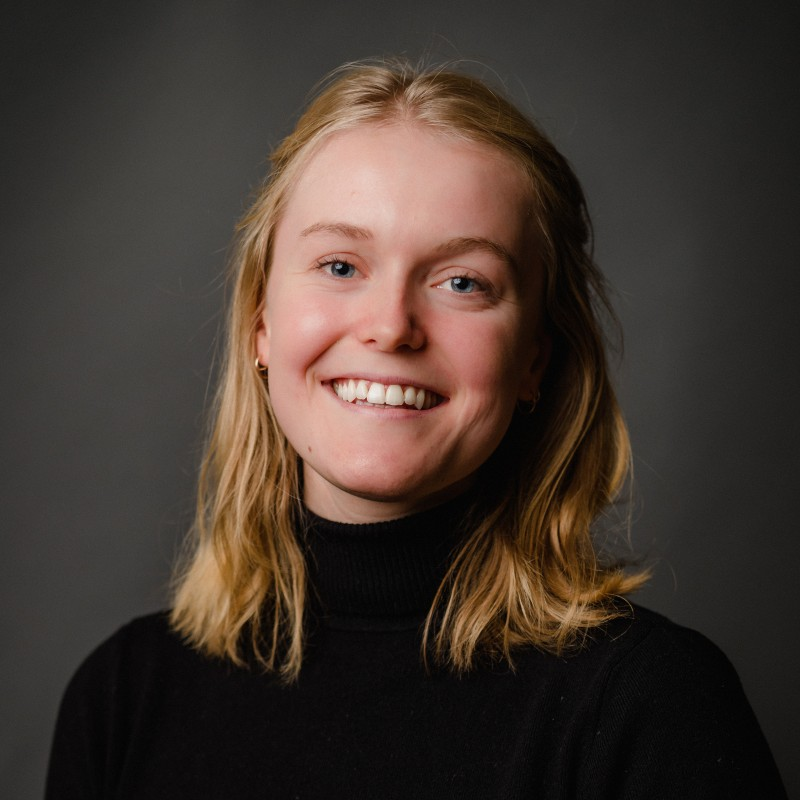
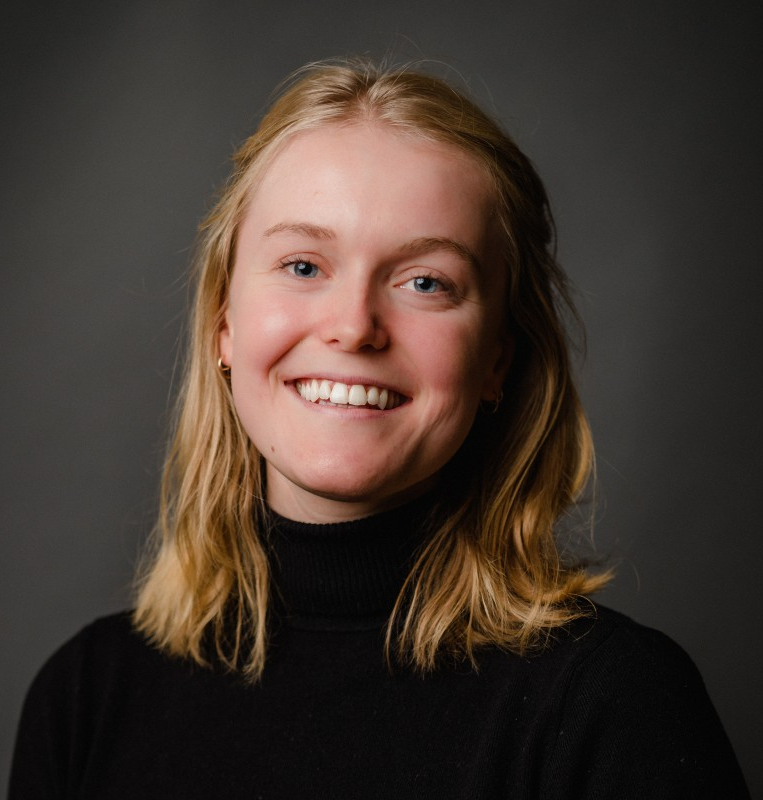
members description and glitch

Changed region(s): [[0.0, 0.0625, 0.8139, 1.0]]

diff --git a/css/style.css b/css/style.css
@@ -402,16 +402,15 @@ h1, h2, p {
     padding-bottom: 3em;
     z-index: 5;
     font-family: 'Oxygen';  
+
 }
 
 .members-header {
     animation: fadeInUp 1s ease-out forwards;
-
     z-index: 20;
     position: relative;
     text-align: center;
     margin-bottom: 1em;
-
     opacity: 0;
     transform: translateY(50px);
     transition: opacity 0.8s ease-out, transform 0.8s ease-out;
@@ -422,25 +421,26 @@ h1, h2, p {
 
 .member-grid {
     display: flex;
-    flex-wrap: wrap;
-    justify-content: center;
-    align-items: flex-start;
-    gap: 1.5em;
-    max-width: 100%;
-    margin: 0 auto;
-    font: 'Oxygen';
+    flex-wrap: wrap; /* Allow items to wrap */
+    align-items: center; /* Center items horizontally */
+    justify-content: center; /* Center items vertically */
+    gap: 1.5em; /* Add spacing between items */
+    padding: 0; /* Remove padding */
+    margin: 0 auto; /* Center the grid itself */
 }
 
 /* Container for each print item */
 .member__img-container {
-    margin: 1em;
-    text-align: center;
+
+    margin: 0; /* Remove any margins */
+    text-align: center; /* Ensure content is centered */
     transition: transform 500ms ease-in-out;
     flex: 0 1 175px;
     display: flex;
     flex-direction: column;
     align-items: center;
     z-index: 5;
+    
 }
 .member__img-container:hover {
     transform: scale(1.15);
@@ -450,14 +450,18 @@ h1, h2, p {
     text-decoration: none;
     color: inherit;
     display: block;
+    
 }
 
 /* Style for the member image */
 .member__img {
-    max-height: 200px;               /* Set a convenient width */
-    height: 100%;                /* Fit within container */
+
+    width: 200px; /* Set a fixed width */
+    height: 200px; /* Set a fixed height */
+    object-fit: cover; /* Crop the image to fit the dimensions */
     box-shadow: var(--bs);
     border-radius: 5px;         /* Optional: rounded corners */
+
 }
 
 /* Container for text details under the image */
@@ -469,7 +473,7 @@ h1, h2, p {
 }
 
 .member__name{
-    font-size: 2em;
+    font-size: 1.75em;
     display: block;
     margin-bottom: 0.2em;
     font-family: 'Oxygen', bold;
@@ -482,7 +486,7 @@ h1, h2, p {
 .member__description {
     display: block;
     margin-bottom: 0.2em;
-    font-family: 'Oxygen', bold;
+    font-family: 'Oxygen';
 }
 
 

diff --git a/index.html b/index.html
@@ -162,13 +162,14 @@
                         <span class="member__role">Logistics Lead</span>
                         <span class="member__description">Chemical Engineering '25</span>
                     </div>
+                </a>
             </div>
             <div class="member__img-container">
                 <a href="https://www.linkedin.com/in/dani-zhao/">
                     <img src="img/dani.jpg" class="member__img" alt="Dani Zhao">
                     <div class="member__details">
                         <span class="member__name">Dani Zhao</span>
-                        <span class="member__role">Logistics | Structural Team Lead</span>
+                        <span class="member__role">Logistics | HP Team Lead</span>
                         <span class="member__description">Mechanical Engineering '25</span>
                     </div>
                 </a>
@@ -178,7 +179,7 @@
                     <img src="img/dj.JPEG" class="member__img" alt="DJ Vandesande">
                     <div class="member__details">
                         <span class="member__name">DJ Vandesande</span>
-                        <span class="member__role">RC Electrical Team Lead | Webmaster</span>
+                        <span class="member__role">RC Elec Team Lead | Webmaster</span>
                         <span class="member__description">Computer Engineering '25</span>
                     </div>
                 </a>
@@ -188,7 +189,7 @@
                     <img src="img/brandon.png" class="member__img" alt="Brandon Lewis">
                     <div class="member__details">
                         <span class="member__name">Brandon Lewis</span>
-                        <span class="member__role">RC Mechanical Team Lead</span>
+                        <span class="member__role">RC Mech Team Lead</span>
                         <span class="member__description">Mechanical Engineering '25</span>
                     </div>
                 </a>    
